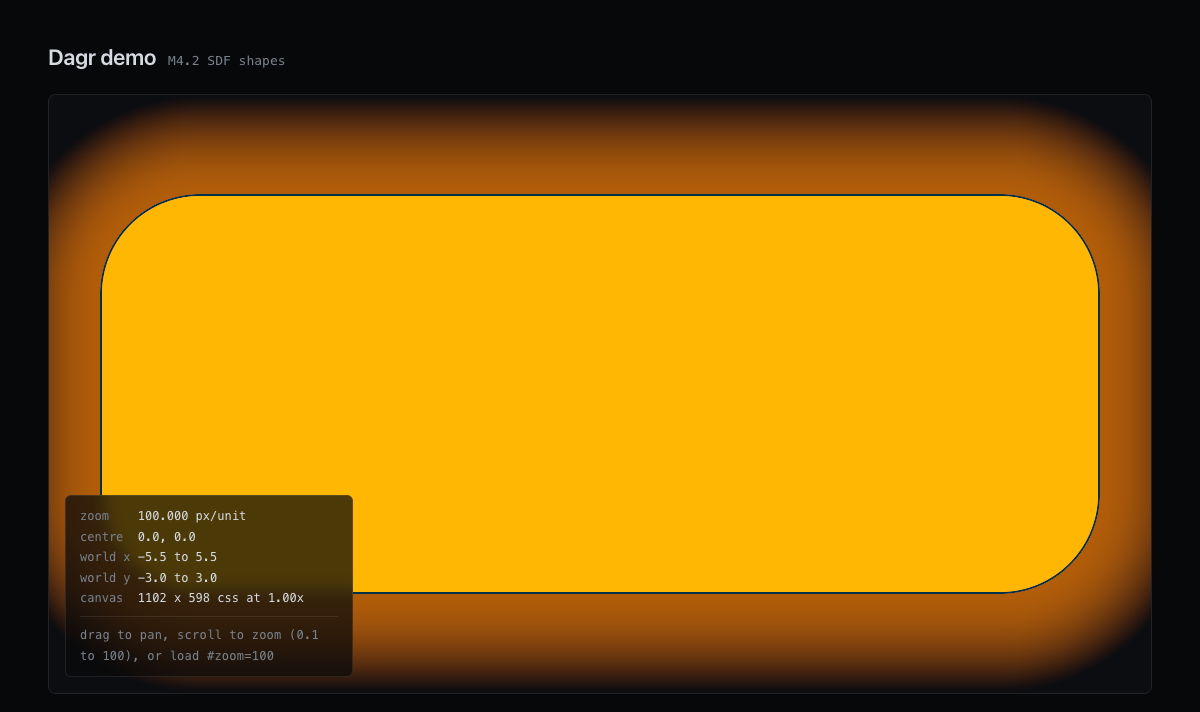
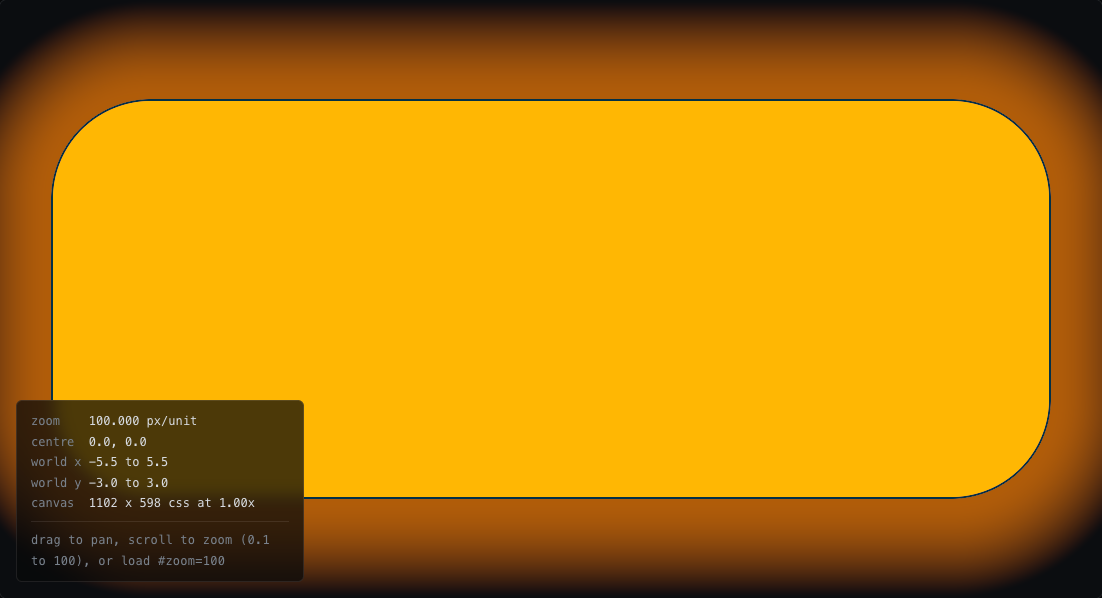
docs(render): recapture the three references against the fixed shader
The committed frames showed the artefact graphics-feel-review found: the
smallest rect drew an amber core, because the collapsed antialias width left it
with no outline band. Recaptured against the fixed shader.

The fix is confirmed on a real device rather than argued. The smallest rect now
measures 36 pixels of outline and ZERO of fill, which is exactly what the
reviewer predicted independently by running fillCoverage and outlineCoverage
over numberArith for a 10 by 4 shape with a 2 pixel band.

Crispness re-verified on the new frames. Comparing rect-10 at zoom 1 against
rect-100 at zoom 0.1, which are geometrically similar and land on the same
sub-pixel phase, 152 of 160 pixels in the window are identical. Four differ by
exactly one per channel at the corner arcs, which is float rounding between a
radius of 1 and a radius of 10 and is the same effect the changelog already
records as needing dyadic values for bit-identity. The other four sit outside
the shape, where the two rungs have different neighbours and so different glow.

The frames are now cropped to the canvas, so each is exactly the 1102 by 598
pixels the renderer drew. The prose claimed a 1200 by 712 window was what made
the canvas 1102 by 598. That is false: the container caps the canvas, which
measures the same in a 1920 wide window. Corrected rather than left standing.

diff --git a/docs/docs/render.md b/docs/docs/render.md
@@ -64,8 +64,12 @@ pixels, the 100 unit rung at 10, and the smallest rung at the
 limit](../../assets/screenshots/m4.2-sdf-shapes-0.1x.png)
 
 All three were captured against a real WebGPU adapter at a device pixel ratio of
-1, in a 1200 by 712 window, which is what makes the canvas 1102 by 598 CSS pixels.
-Reproducing one takes no gesture: run the demo and open `#zoom=100`. The frame is
+1, cropped to the canvas itself, so each frame is exactly the 1102 by 598 pixels
+the renderer drew and nothing else. The canvas is that size because its container
+caps it, not because of the window: it measures 1102 by 598 in a 1920 wide window
+as readily as in a 1200 wide one, and an earlier version of this paragraph claimed
+the window size caused it, which is wrong. Reproducing one takes no gesture: run
+the demo and open `#zoom=100`. The frame is
 mostly background at 0.1, and that is inherent rather than a framing mistake, since
 the visible world there is 11020 world units across and the whole ladder fits
 inside it with room to spare.
